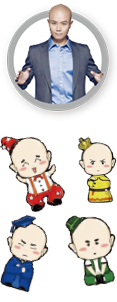
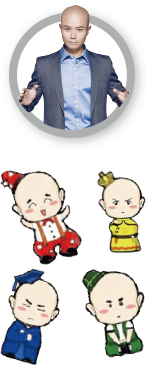
sec02

diff --git a/css/invite.css b/css/invite.css
@@ -41,9 +41,44 @@ section{display: block;}
 	width:109px;height:101px;
 	background-position:-202px -153px;
 }
+
+.avatar {
+	position:absolute;z-index:4;
+	background:url(../img/avatar.png) no-repeat;display:block;
+}
+.avatar-2 {
+	width:83px;height:94px;
+	background-position: 0 -170px;
+}
 .bg{position: absolute;left: 0;top: 0;width: 100%;height: 100%;z-index:1;}
 .bg .bg_sec{width: 100%;float: left;position: relative;overflow: hidden;/*min-height: 416px;*/}
-.bg01{background: #EAEBED;}.bg02{background: #468E7C;}.bg03{background: #F79536;}.bg04{background: #5FA3FF;}.bg05{background: #05BD64;}.bg06{background: #2E3A5E;}.bg07{background: #E42E2D;}.bg08{background: #282E3D;}.bg09{background: #0D0D0D;}
+.bg01{
+	background: #e2e3e3;
+}
+.bg02{
+	background: #c9151e;
+}
+.bg03{
+	background: #F79536;
+}
+.bg04{
+	background: #5FA3FF;
+}
+.bg05{
+	background: #05BD64;
+}
+.bg06{
+	background: #2E3A5E;
+}
+.bg07{
+	background: #E42E2D;
+}
+.bg08{
+	background: #282E3D;
+}
+.bg09{
+	background: #0D0D0D;
+}
 
 .sec{z-index: 1;position: absolute;left: 0;top: 0;width: 100%;height: 100%;-webkit-transition:all 0.3s linear;-webkit-transform:translateY(0px);transition:all 0.3s linear;transform:translateY(0px);-webkit-backface-visibility:hidden;}
 .sec section{overflow: hidden;position: relative;width: 100%;/*min-height: 416px;*/z-index: 3;-webkit-backface-visibility:hidden;}
@@ -81,24 +116,26 @@ section{display: block;}
 	left:50%;bottom:16%;margin-left:40px;
 }
 .sec01 .avatar-1 {
-	
+	bottom:50%;right:50%;margin-right:-20px;
+	margin-bottom:30px;
+	width:146px;height:150px;
 }
 .sec01 .title {
 	position:absolute;left:50%;z-index:4;
-	width:240px;
-	margin-left:-120px;
+	width:290px;
+	margin-left:-145px;
 	background:url(../img/sec01_title.png) no-repeat;display:block;
 	
 }
 .sec01 .title-1 {
-	bottom:50%;margin-top:10px;
-	height:110px;
+	bottom:50%;margin-bottom:-38px;
+	height:136px;
 	background-position:0 0;
 }
 .sec01 .title-2 {
-	top:50%;margin-top:10px;
-	height:66px;
-	background-position:0 -110px;
+	top:50%;margin-top:38px;
+	height:77px;
+	background-position:0 -136px;
 }
 .sec01_show .title-2 {
 	-webkit-animation:opa 1.5s linear;
@@ -153,14 +190,30 @@ section{display: block;}
 @-webkit-keyframes start {0%,30% {opacity: 0;-webkit-transform: rotate(180deg) translate(0,-10px);}60% {opacity: 1;-webkit-transform: rotate(180deg) translate(0,0);}100% {opacity: 0;-webkit-transform: rotate(180deg) translate(0,5px);}}
 @keyframes start {0%,30% {opacity: 0;transform: rotate(180deg) translate(0,-10px);}60% {opacity: 1;transform: rotate(180deg) translate(0,0);}100% {opacity: 0;transform: rotate(180deg) translate(0,5px);}}
 
-.sec02 .p{z-index: 2;position: absolute;left: 50%;margin-left: -70px;top: 18%;line-height: 1.5;}
+.sec02 .p{
+	z-index: 2; position: absolute; left: 50%; bottom: 50%;
+	margin-left: -70px;
+	line-height: 1.5;
+}
 .sec02 h2{font-size: 2.25rem;}
 .sec02 p{font-size: 0.75rem;padding-left: 1rem;}
 .sec02 p:nth-last-child(1){padding-left: 2rem;}
 .sec02 .data{z-index: 2;font-size: 0.75rem;position: absolute;left: 50%;margin-left: -115px;top: 9%;text-decoration: underline;color: #78A89B;}
-.ico_reader{z-index: 2;position: absolute;left: 50%;margin-left: -54px;top: 48%;display: block;}
+.ico_reader{
+	z-index: 2; position: absolute;left: 50%; top: 12.5%;
+	margin-left: -54px;margin-top:-10px;
+	display: block;
+}
 .ico_rea{z-index: 1;position: absolute;left: 21px;top: 20px;display: block;width: 77px;height: 70px;background-position: -6.5px -9px;}
-.ico_reader_cir{position: absolute;left: 0;top: 0;display: block;width: 90px;height: 90px;border: 15px solid #FFF;background: #FFC974;border-radius: 100%;}
+.ico_reader_cir{
+	position: absolute; left: 0; top: 0;
+	width: 98px;height: 98px;
+	border: 8px solid #982429;
+	border-radius: 50%;
+	display: block;
+	background: #fff;
+	box-shadow: 3px 3px 5px rgba(0,0,0,0.05);
+}
 .bg02 b{position: absolute;left: 50%;color: #3F826F;}
 .bg02 .b_a{font-size: 1.75rem;margin-left: -95px;top: 60px;}
 .bg02 .b_b{font-size: 1.75rem;margin-left: -125px;top: 150px;}
@@ -185,9 +238,69 @@ section{display: block;}
 .sec06_show .p p:nth-child(5){-webkit-transition: all 1.4s ease-in-out;transition: all 1.4s ease-in-out;}
 .sec02_show .p h2,.sec02_show .p p,.sec02_show .data,.sec03_show .p h2,.sec03_show .p p,.sec03_show .data,.sec04_show .p h2,.sec04_show .p p,.sec04_show .data,.sec05_show .p h2,.sec05_show .p p,.sec05_show .data,.sec06_show .p p{-webkit-transform: translate(0,0);transform: translate(0,0);opacity: 1;}
 /****/
-.sec02 .ico_rea,.sec02 .ico_reader_cir{opacity: 0;}
-.sec02_show .ico_rea{opacity:1;-webkit-animation: ico_reader_cir 1.3s linear;animation: ico_reader_cir 1.3s linear;}
-
+.sec02 .theme-cn,.sec02 .theme-en,
+.sec03 .theme-cn,.sec03 .theme-en,
+.sec04 .theme-cn,.sec04 .theme-en,
+.sec05 .theme-cn,.sec05 .theme-en {
+	font-size:46px;white-space: nowrap;
+}
+.sec02 .theme-cn,
+.sec03 .theme-cn,
+.sec04 .theme-cn,
+.sec05 .theme-cn {
+	position: absolute;right:-70px;bottom:38px;
+	-webkit-transform: translate(-50px,0);
+	transform: translate(-50px,0);
+	opacity: 0;
+	-webkit-transition: all 0.5s linear;
+	transition: all 0.5s linear;
+}
+.sec02 .theme-en,
+.sec03 .theme-en,
+.sec04 .theme-en,
+.sec05 .theme-en {
+	position: absolute;left:70px;bottom:22px;
+	-webkit-transform: translate(50px,0);
+	transform: translate(50px,0);
+	opacity: 0;
+	-webkit-transition: all 0.5s linear;
+	transition: all 0.5s linear;
+}
+.sec02 .slogan {
+	position:absolute;left:70px;bottom:0;
+	width:200px;margin-left:-100px;
+	font-size:22px;
+}
+.sec02 .desc {
+	position:absolute;left:50%;bottom:16%;
+	width:300px;margin-left:-150px;
+	text-align:center;font-size:19px;line-height: 30px;
+}
+.sec02_show .theme-cn,.sec02_show .theme-en,
+.sec03_show .theme-cn,.sec03_show .theme-en,
+.sec04_show .theme-cn,.sec04_show .theme-en,
+.sec05_show .theme-cn,.sec05_show .theme-en {
+	-webkit-transform: translate(0,0);transform: translate(0,0);opacity: 1;
+}
+.sec02_show .desc {
+	-webkit-animation:opa 1.5s linear;
+	animation: opa 1.5s linear;
+}
+.sec02 .ico_rea,
+.sec02 .avatar-2,
+.sec02 .ico_reader_cir{
+	opacity: 0;
+}
+.sec02_show .ico_rea{
+	opacity:1;
+	-webkit-animation: ico_reader_cir 1.3s linear;
+	animation: ico_reader_cir 1.3s linear;
+}
+.sec02_show .avatar-2{
+	opacity:1;
+	-webkit-animation: ico_reader_cir 1.3s linear;
+	animation: ico_reader_cir 1.3s linear;
+}
 .sec02_show .ico_reader_cir{opacity:1;-webkit-animation: ico_reader_cir 1s linear;animation: ico_reader_cir 1s linear;}
 @-webkit-keyframes ico_reader_cir {0%,50% {opacity: 0;-webkit-transform: scale(0);}70% {opacity: 0.8;-webkit-transform: scale(1.5);}80% {opacity: 1;-webkit-transform: scale(0.8);}90% {-webkit-transform: scale(1.2);}}
 @keyframes ico_reader_cir {0%,50% {opacity: 0;transform: translate(-80px,0);}}

diff --git a/index.html b/index.html
@@ -29,9 +29,9 @@
                 <div class="bg_sec bg09"></div>
             </div>
             <section class="sec01" style="display:;">
-                <h2>腾讯互动娱乐2014年度发布会</h2>
                 <h2 class="title title-1"></h2>
                 <div class="title title-2"></div>
+                <div class="avatar avatar-1"></div>
                 <div class="layer" data-depth="0.75">
                     <span class="rgb-arrow rgb-arrow-y"></span>
                     <span class="rgb-arrow rgb-arrow-b-l"></span>
@@ -45,22 +45,34 @@
             </section>
             <section class="sec02 " style="display:;">
                 <div class="p">
-                    <h2>我是读者</h2>
-                    <p>每天有1500万人在腾讯文学的平台上</p>
-                    <p>等候“大神”的更新</p>
+                    <div class="theme-cn">红色</div>
+                    <div class="theme-en">RED</div>
+                    <p class="slogan">快乐的带动者</p>
                 </div>
-                <div class="data">15,000,000</div>
+                <div class="desc">
+                	他们积极乐观<br />
+                	天赋超凡魅力<br />
+                	随性而又善于交际
+                </div>
                 <span class="ico_reader">
+                	<!--
                     <span class="ico_rea"></span>
+                    <!---->
+                    <span class="avatar avatar-2"></span>
                     <span class="ico_reader_cir"></span>
                 </span>
                 <span class="start"><b aria-hidden="true" data-icon="1"></b></span>
             </section>
             <section class="sec03 " style="display:;">
                 <div class="p">
-                    <h2>我是漫迷</h2>
-                    <p>超过6000万火影粉在</p>
-                    <p>腾讯动漫平台守护最初的热血</p>
+                    <div class="theme-cn">蓝色</div>
+                    <div class="theme-en">BLUE</div>
+                    <p class="slogan">最佳的执行者</p>
+                </div>
+                <div class="desc">
+                	他们对待朋友忠诚而诚挚<br />
+                	并在思想上深层次<br />
+                	关心和交流
                 </div>
                 <div class="data">60,000,000</div>
                 <span class="ico_comic">
